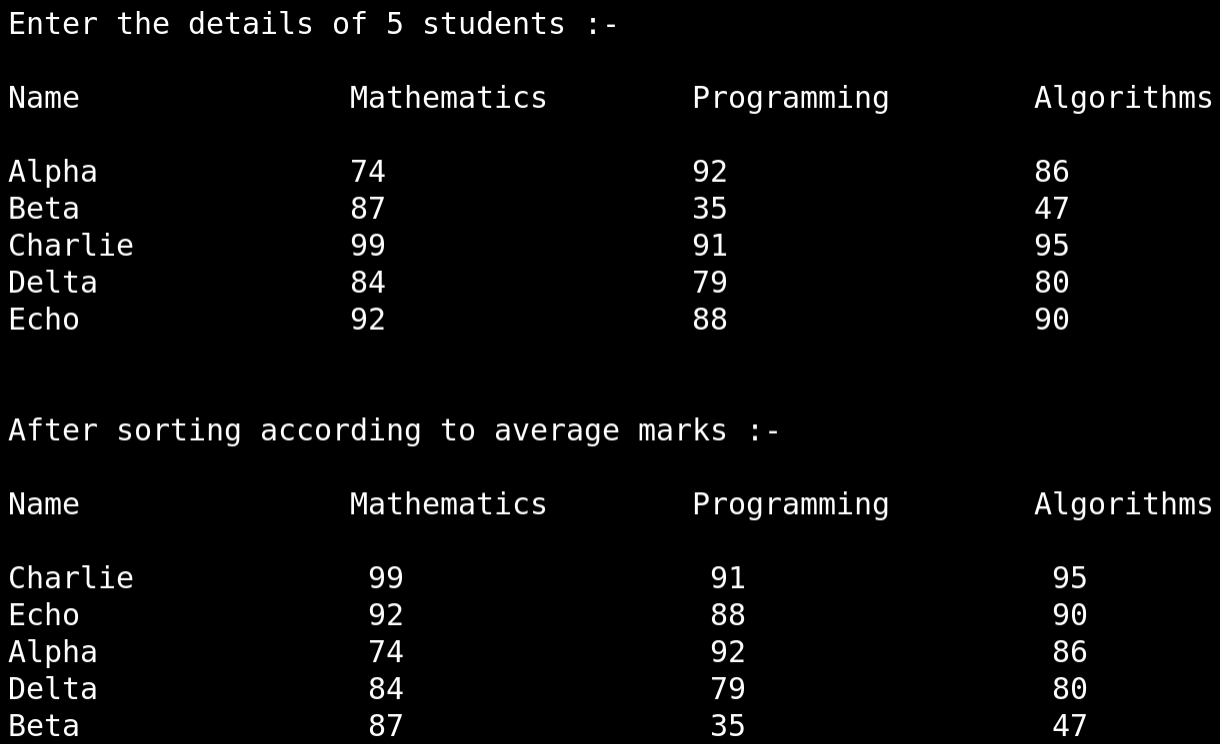
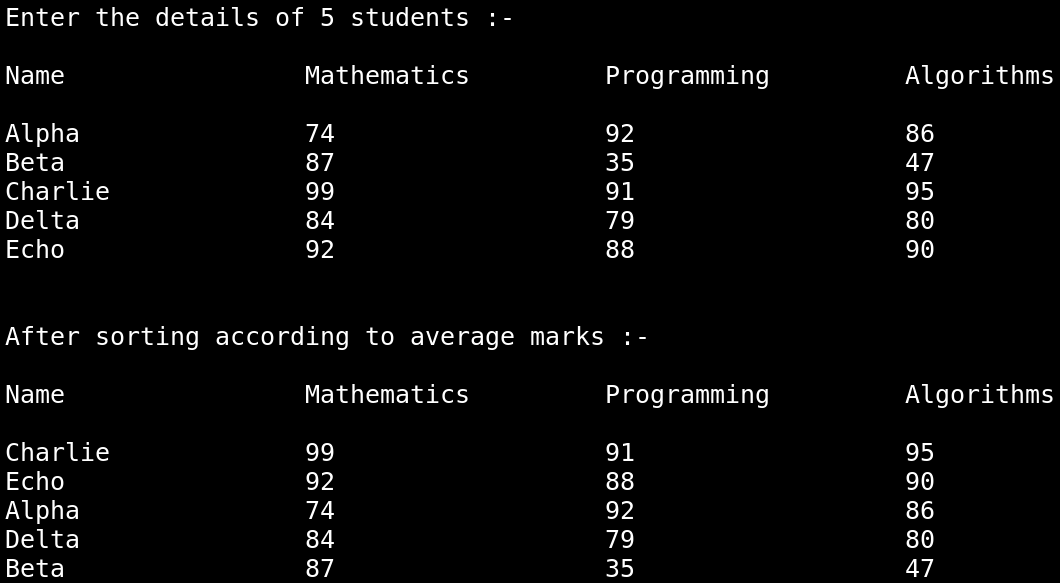
Update C-01

diff --git a/156/156.c b/156/156.c
@@ -27,7 +27,7 @@ int main(void)
 {
 
     printf("Enter the details of 5 students :-\n\n");
-    printf("%-18s %-18s %-18s %-18s\n\n", "Name", "Mathematics",
+    printf("%-19s %-19s %-19s %-19s\n\n", "Name", "Mathematics",
                                           "Programming", "Algorithms");
 
     struct student * students =
@@ -54,11 +54,11 @@ int main(void)
     sort_pointers_to_structures(p);
 
     printf("\n\nAfter sorting according to average marks :-\n\n");
-    printf("%-18s %-18s %-18s %-18s\n\n", "Name", "Mathematics",
+    printf("%-19s %-19s %-19s %-19s\n\n", "Name", "Mathematics",
                                           "Programming", "Algorithms");
 
     for (int i = 0; i < 5; i++)
-        printf("%-18s %-18g %-18g %-18g\n", p[i]->name,
+        printf("%-19s %-19g %-19g %-19g\n", p[i]->name,
                                             p[i]->marks.mathematics,
                                             p[i]->marks.programming,
                                             p[i]->marks.algorithms);
@@ -94,5 +94,106 @@ void sort_pointers_to_structures(const struct student ** p)
    Passing structures by value is most often done for structures that are small
    to begin with, or by passing only the required members of large structures
    individually.
+
+
+ * A union is a type that can be used to store different data types in the same
+   memory space (but not simultaneously).
+ * The compiler allots enough space so that it can hold the largest of the
+   described possibilities.
+
+ * Unions are set up in much the same way as structures, i.e. declarations,
+   initializations, accessing, anonymous unions, etc. are similar to structures.
+   For eg., union data
+            {
+                int i;
+                double d;
+                char c;
+            };
+   A structure with a similar declaration would be able to hold an int value
+   'and' a double value 'and' a char value. This union, however, can hold an int
+   value 'or' a double value 'or' a char value.
+
+ * Union initializations :-
+   union data first;
+   first.c = 'R';
+   union data second = first; // initialize one union to another
+   union data third = {88}; // initialize i member of union
+   union data fourth = {.d = 118.2}; // designated initializer
+
+ * It is the programmer's responsibility to write the program so that it keeps
+   track of the data type currently being stored in a union.
+ * Things like union data { char c; int i; }; union data first; first.c = 'K';
+   printf("%d\n", first.i); don't give warnings or errors, but should always be
+   avoided, unless its a special case.
+
+
+ * The enumerated type can be used to declare symbolic names to represent
+   integer constants.
+ * For eg., enum spectrum {red, orange, yellow, green, blue, indigo, violet};
+   makes red a symbolic constant for 0, orange a symbolic constant for 1,
+   yellow a symbolic constant for 2, and so on.
+   [These symbolic constants can be used as sizes in non-VLA declarations,
+    labels in a switch statement, etc. Thus they aren't const variables, but
+    are symbolic constants, similar to #define constants.]
+ * Like structures and unions, enum spectrum now becomes the name of a type.
+   Now, for a statement like enum spectrum colour;, colour becomes an
+   enumerated variable (which is basically of an integer type) which can take
+   the values 0, 1, 2, 3, 4, 5 and 6, or more specifically, red, orange,
+   yellow, green, blue, indigo and violet.
+   colour can also take values out of the given range, but it isn't always
+   guaranteed to work, as the actual integer type used varies.
+   Thus, enum spectrum colour = red; // OK
+         enum spectrum colour = 4; // OK
+         enum spectrum colour = purple; // Error
+         enum spectrum colour = 7; // OK (mostly)
+         enum spectrum colour = 123456789987654321; // Overflow (mostly)
+         int a = red; // OK
+         unsigned b = orange; // OK
+         long c = yellow; // OK
+         char d = green; // OK
+   [The compiler is free to choose the integer type to represent an enumerated
+    type. For eg., here the compiler could choose an unsinged char to represent
+    the variable colour in this case.]
+
+ * One can choose the integer values to assign to the enumerators as well.
+   For eg., (a) enum levels {low = 100, medium = 500, high = 2000}; makes low,
+                medium and high symbolic constants for 100, 500 and 2000,
+                respectively.
+            (b) enum furniture {chair, table = 10, bed}; makes chair, table and
+                bed symbolic constants for 0, 10 and 11, respectively.
+
+
+ * typedef enables the creation of custom names for a type.
+ * Unlike #define, typedef is limited to giving symbolic names to types only.
+   Also, the interpretaion is performed by the compiler, instead of the
+   preprocessor - similar to enum symbolic constants.
+ * For eg., typedef unsigned char BYTE;
+            BYTE x = 'K';
+   The scope (i.e. the usage of BYTE instead of unsigned char) depends on the
+   location of the typedef statement. If it is inside a function, then the scope
+   is local, but if it is outside any function, then the scope is global.
+ * The types size_t, time_t, etc. are actually typedef types, as the actual
+   type depends upon the implementation.
+   Thus, on one system, size_t can be unsigned long, but on another, it can be
+   unsigned int.
+
+
+ * A pointer to a function holds the address marking the start of the function
+   code.
+ * Typically, a function pointer is used as an argument to another function,
+   telling the second function which function to use.
+ * For eg., for the function void to_upper(char *);, the pointer can be declared
+   as void (* p)(char *);
+   One way to understand this pointer declaration is that to_upper is replaced
+   by (* p).
+ * In the contexts of assigning the address of a function to a pointer and
+   passing the address of a function to another function, the function name can
+   be treated as its address.
+   For eg., p = to_upper; // OK
+            p = to_upper(); // Error
+            my_printf(to_upper); // OK, passes address of to_upper()
+            my_printf(to_upper(str)); // OK, passes return value of to_upper()
+ * Surprisingly, to call a function using a pointer, one can use p() as well as
+   (* p)();
 
  */

diff --git a/151/151.c b/151/151.c
@@ -110,6 +110,10 @@ char * modified_fgets(char * s, int n)
        double price;
    }
        library;
+ * Declaring a structure variable alongwith declaring the structure doesn't
+   mean that the structure tag cannot be used anymore in the program.
+ * Omitting the tag would make the structure declaration unusable for other
+   variables, like in this example.
 
  * A structure variable can be initialized as well.
    For eg., struct book library = { "C Primer Plus",
@@ -127,5 +131,10 @@ char * modified_fgets(char * s, int n)
    As opposed to arrays, where arr = int[2] {1,2}; is not valid, assignment to
    structures is possible, such as name1 = (struct name) {"Kushagr", "Jaiswal"};
    [Similar rules to that of array compound literals apply here as well]
+
+ * In C, one can use the same name for a tag and a variable in the same scope
+   without causing errors.
+   But, using the same name for two variables, or for two tags, in the same
+   scope causes errors.
 
  */

diff --git a/168/168.c b/168/168.c
@@ -1,0 +1,21 @@
+// C17 Standard
+
+#include <stdio.h>
+
+
+int main(void)
+{
+
+    return 0;
+
+}
+
+
+
+
+
+/* Trivia
+
+
+
+ */
